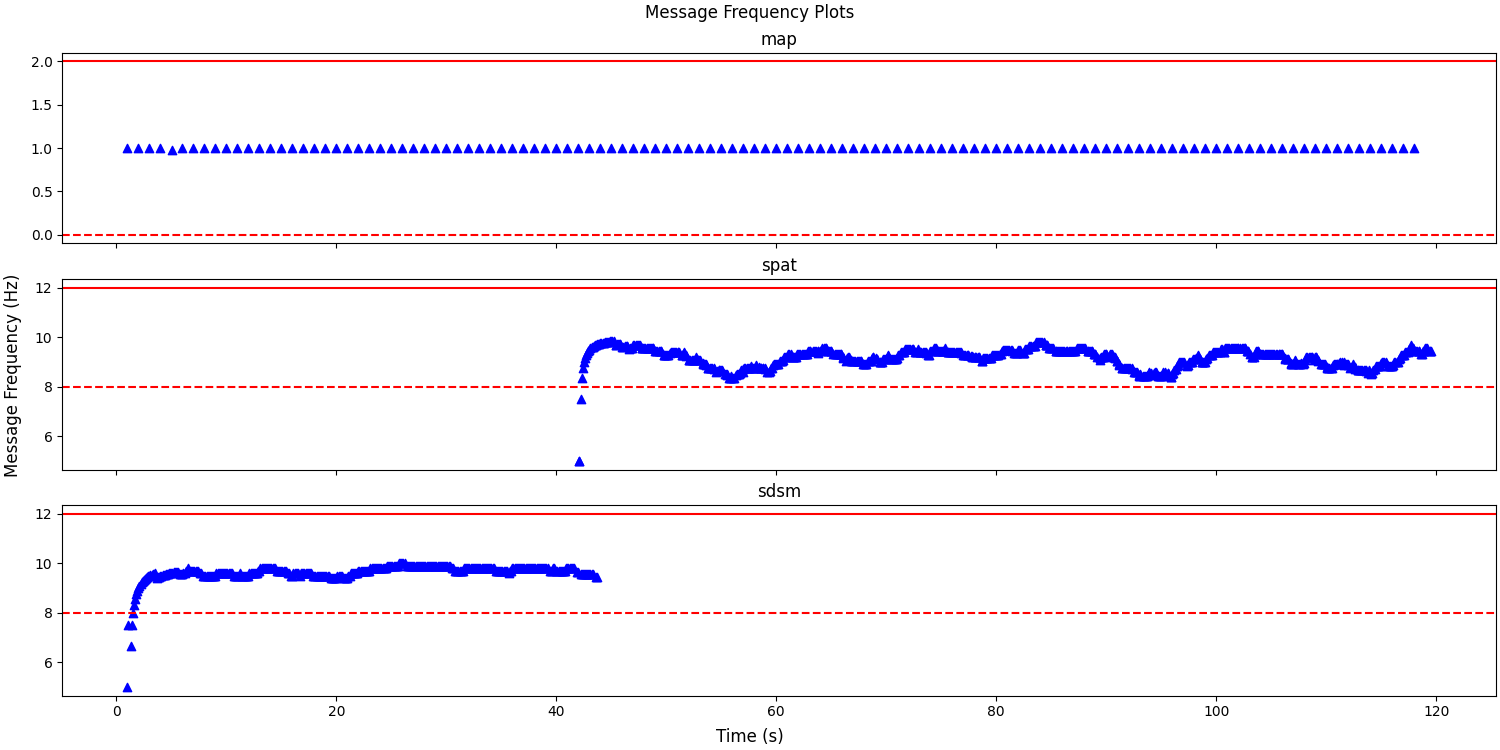
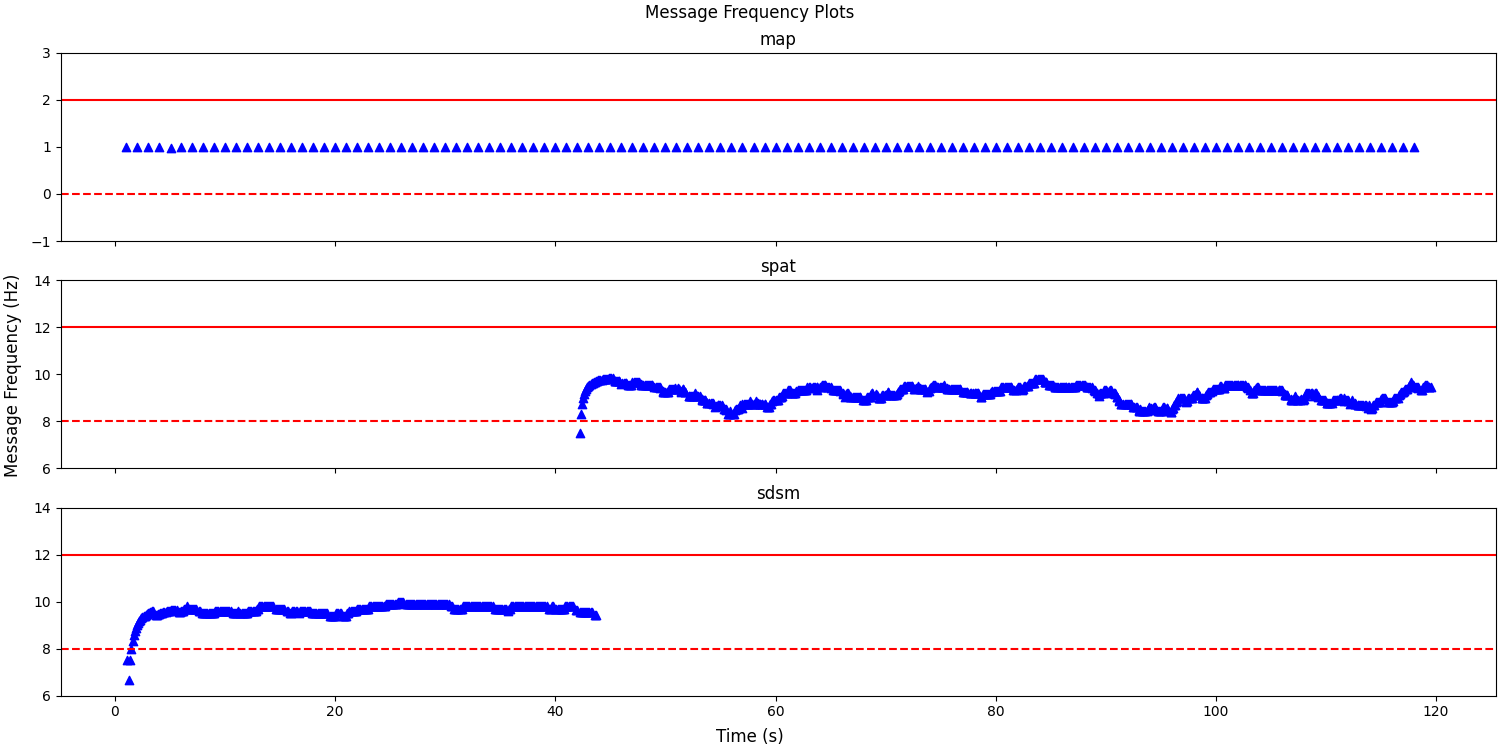
Updates

diff --git a/src/carma-streets/plot_message_frequencies.py b/src/carma-streets/plot_message_frequencies.py
@@ -43,7 +43,7 @@ def plot_message_frequencies(csv_dir: Path, plots_dir: Path, simulation: bool = 
                 message_data_frame["Time (s)"] = message_data_frame["Time (ms)"]/1000
             else :
                 message_data_frame["Time (s)"] = message_data_frame["Timestamp(ms)"]/1000
-            message_data_frame = add_message_frequency_columns(message_data_frame)
+            add_message_frequency_columns(message_data_frame)
             if KafkaLogMessageType.MAP.value in message_name:
                 #
                 plot_message_frequency(msg_plot,message_data_frame['Time (s)'], message_data_frame["Average Frequency (Hz)"] ,message_name,1, 1)
@@ -71,7 +71,7 @@ def plot_message_frequency( axes: axes.Axes, time: list, frequency: list , messa
     axes.axhline(y=target_frequency-absolute_error, color='r', linestyle='--', label="frequency lower bound")
     axes.axhline(y=target_frequency+absolute_error, color='r', linestyle='-', label="frequency upper bound")
     axes.set_title(message_name)
-    # axes.set_ylim(target_frequency-2*absolute_error, target_frequency+2*absolute_error)
+    axes.set_ylim(target_frequency-2*absolute_error, target_frequency+2*absolute_error)
 
 def get_simulation_time(message_wall_time : list, time_sync_wall_time: list, time_sync_simulation_time : list)-> list:
     """Returns a list of simulation times for the provided message wall times.
